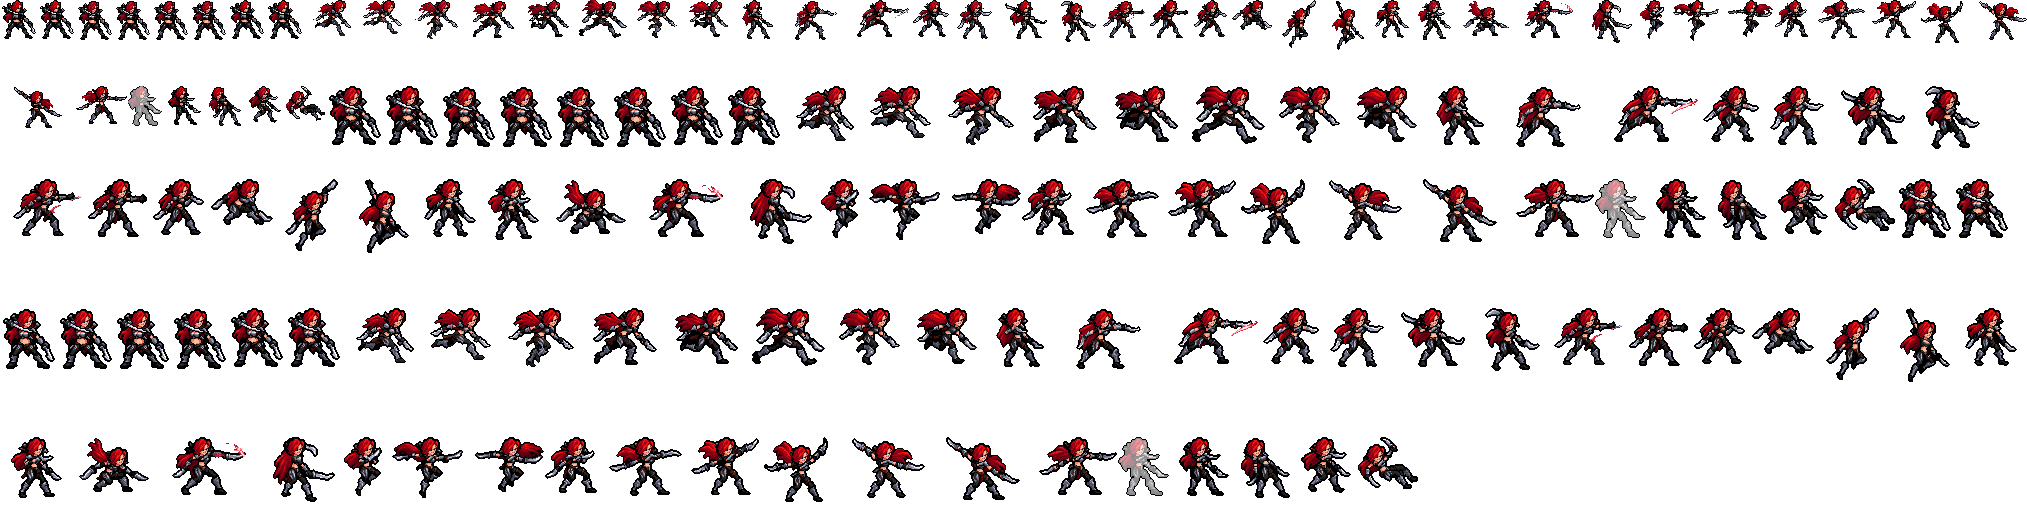
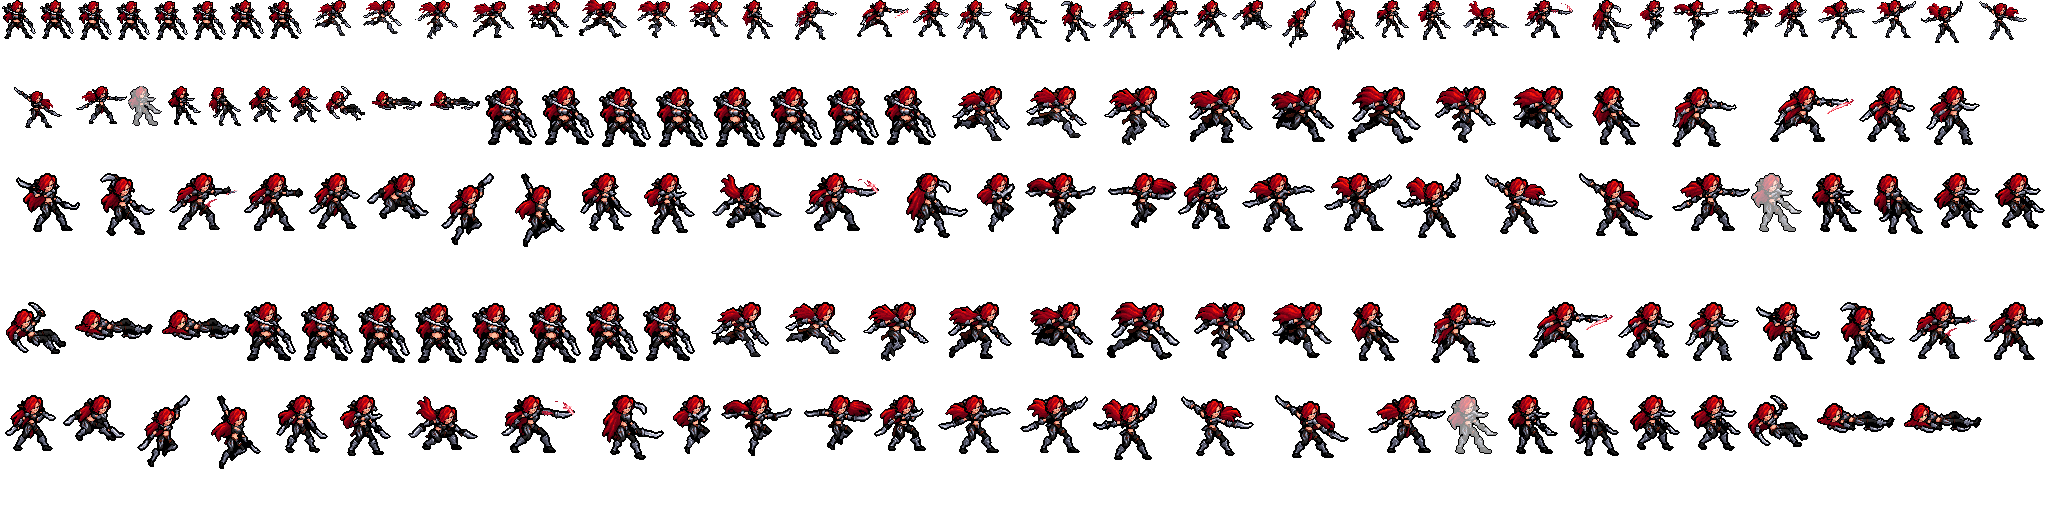
卡特琳娜动作补帧：阵亡 3 帧 3 姿势 -> 6 帧 6 姿势（Codex 画的躺地那张一直被丢掉，放回去；头发按列摆的两张中间帧用她自己的原帧做）
用户：「还有有的动画感觉只有一帧 不如oppi的地方都要补 参考联盟的动画」，又说「动画你觉得少的地方就想办法补」「能改就想办法改 全都要改」，
现在「剩下的一批英雄也做了啊 都做完了装进去了再测」。对照表里阵亡 3 帧 0.36 秒，而且停在半空往后倒的那张。
没有新画，没有交给 Codex，没有用图像模型。数法：「几帧，其中几个不同的姿势」。

- 先找写她图集的脚本：图集最后一次提交是 245de0a92（恢复 #326 删掉的文件），真正写的是 f20a80e16 的
  tools/art/rig_katarina.py -> ppu_restyle -> rig_katarina.py --pinholes -> ppu_hd -> hero_reels；干净的树上这五步重跑，
  图集和 fanim 逐字节一样（match.json 只差行尾；ppu_restyle 写出一个库里没有的 orig/katarina_face.json，跟这次一起进库）
- tools/art/rig_katarina.py：
  action() 里 out.append 缩进在 else 下面——NO_HEAD 的帧（躺地、保留 Codex 自己的头）做出来又丢掉，从 e287f28b0 第一次导入
  就这样，阵亡一直停在往后倒的半空。现在放回去；TAGS 的 dead 6 -> 4（Codex 的第 5、6 张和第 4 张逐格一样）。
  dead_frames()：中弹 | 踉跄的身子、头发还垂着（发梢往下 4 格）| 踉跄 | 往后倒 | 躺地、铺开的头发发梢还翘着 4 格 | 躺平，
  每张 60，一共还是 360。hair_waved()：头发按她自己的颜色（is_hair）在框里挑，连同两格深、只挨着头发 / 描边 / 空白的描边，
  inbetween.vary 的 wave（离开头的地方 0、发梢 k）；贴上去的造型头（HEAD2，按 with_head 贴的位置逐格找到）交给 vary 核对没动
- 图集和 fanim 重新生成：2027x531 -> 2045x523；其余 9 个标签（连同 hd_、lo_、待机和选人卡片共 33 个）逐帧像素、时长都没变；
  hero_reels.json 不用改（待机剪的是 W 和 Q），选人卡片还是普攻、Q、W、R；选人格子用的那张 0.85 -> 0.96 MiB
- docs/heroes/league_katarina.md「开发记录」加一行

不满意的地方：往后倒到躺地还是一下过去（身子转了大半圈，只有原画那两张，转整个人会动到头）；两张中间帧只有头发在动
（4 格，3 倍下看得见、不大）；360 毫秒放六张，每张 60，倒得很快。

查过：hero_reels --check --hero katarina（0）；新旧图集逐帧对比（compare_sheets：33 个标签逐帧没变，阵亡总长 360 不变）；
sheet_audit（阵亡六帧没有针孔、碎块）；ui_sheets（bp 303.5 / 768 MiB）；league_viego_soul make_override 和 --check；
gen_hero_docs --check；cargo test --release -p hd_engine -p league_main -p league_viego_soul -p league_katarina（48 + 41 + 26
[…]

diff --git a/docs/heroes/league_katarina.md b/docs/heroes/league_katarina.md
@@ -104,6 +104,7 @@
 | 特效 | Codex 第 3 步的 18 个特效 + 3 张画进帧的图（`assets/source/katarina/codex_fx`）。[`tools/art/import_katarina_fx.py`](../../tools/art/import_katarina_fx.py)：Codex 第 3 步的交付没到这台电脑上，用户：「特效你自己处理啊 我发了那么多图给你了」——用户贴在对话里的交付图存进 `assets/source/katarina/codex_fx/pasted`，[`tools/art/regrid_katarina_fx.py`](../../tools/art/regrid_katarina_fx.py) 按提示词的格子读回成游戏格子（`pixel_1x` + `manifest.json`）：13 张单独贴的图按整张图的宽和每格多少格算，只在文件总览里出现的旋转飞刀、捡刀旋斩、死亡莲华、W 加速、重伤 5 张按帧距算、只取不透明的芯；每格取它的像素均值往最亮的四分之一推、归到那张特效的色阶；要对称的逐格对称，旋斩和莲华中间给她的身体留空。3 张画进帧的刀光只在总览里有小图，按原位放刺击会斜穿过她全身，改成按提示词的长度、尖端对准定位图的青色十字。[`tools/art/import_katarina_fx.py`](../../tools/art/import_katarina_fx.py) 写成 `league_katarina_fx`（飞刀、匕首、打中、瞬步的烟、抛刀、地上的匕首、贪婪刷新、加速、重伤）和 `league_katarina_big`（旋斩、死亡莲华），`rig_katarina.py --pinholes` 把刀光叠进普攻第 3 帧、Q 第 3 帧、瞬步第 2 帧 |
 | 音效 | 英雄联盟的音效和配音（[`tools/lol/extract_katarina.py`](../../tools/lol/extract_katarina.py)，16 段）：刺击出手 / 打中、Q 出手 / 飞刀 / 打中 / 匕首弹起 / 落地、W 抛刀、E 瞬步、捡刀旋斩、贪婪刷新、R 死亡莲华，配音 Q / W / E / R（E 没有自己的配音，用 Q / W 那一组里的另一句） |
 | 图标 | 官方技能图标（Q 弹射之刃 / W 伺机待发 / R 死亡莲华，另有 E 瞬步、被动贪婪、匕首旋斩），从本地客户端取 |
+| 动作补帧（2026-11-14） | 用户：「还有有的动画感觉只有一帧 不如oppi的地方都要补 参考联盟的动画」，又说「动画你觉得少的地方就想办法补」「能改就想办法改 全都要改」。对照表里阵亡只有 3 帧 0.36 秒，而且停在半空往后倒的那张：Codex 画了 6 张（中弹、踉跄、倒下、躺地，后三张是同一张躺着的画），[`tools/art/rig_katarina.py`](../../tools/art/rig_katarina.py) 的 `action()` 一直把躺着的那几张（保留 Codex 自己的头的 NO_HEAD 帧）做出来又丢掉了（`out.append` 缩进在 else 里，从第一次导入就是这样）。现在躺着那张放回去；再用她自己的画做两张中间帧（[`tools/art/inbetween.py`](../../tools/art/inbetween.py) 的 `wave`，`hair_waved`）：长发按她自己的颜色挑出来（连同两格深的描边），离开头的地方不动、发梢按列整格移动，贴上去的造型头逐格核对没动。下面写的是「几帧，其中几个不同的姿势」。**阵亡** 3 帧（3 个姿势）→ 6 帧，其中 6 个：中弹；踉跄的身子、头发还垂着（发梢低 4 格，头发比身子慢一拍）；踉跄、头发飘起；往后倒；躺在地上、铺开的头发发梢还翘着 4 格；躺平。每张 60 毫秒，一共还是 360 毫秒，最后停在躺着那张。技能数据没改；待机、跑、普攻、Q、W、瞬步、捡刀旋斩、大招、受击逐帧没变。每帧 3 倍、头发 8 倍看过。待机剪的还是 W 和 Q（`hero_reels.json` 不用改），选人卡片还是普攻、Q、W、R，逐帧没变。图集 2027×531 → 2045×523，选人格子用的那张 0.85 → 0.96 MiB。游戏里还没看过 |
 
 重新生成（素材来自本机的英雄联盟客户端，音频不进仓库）：
 
